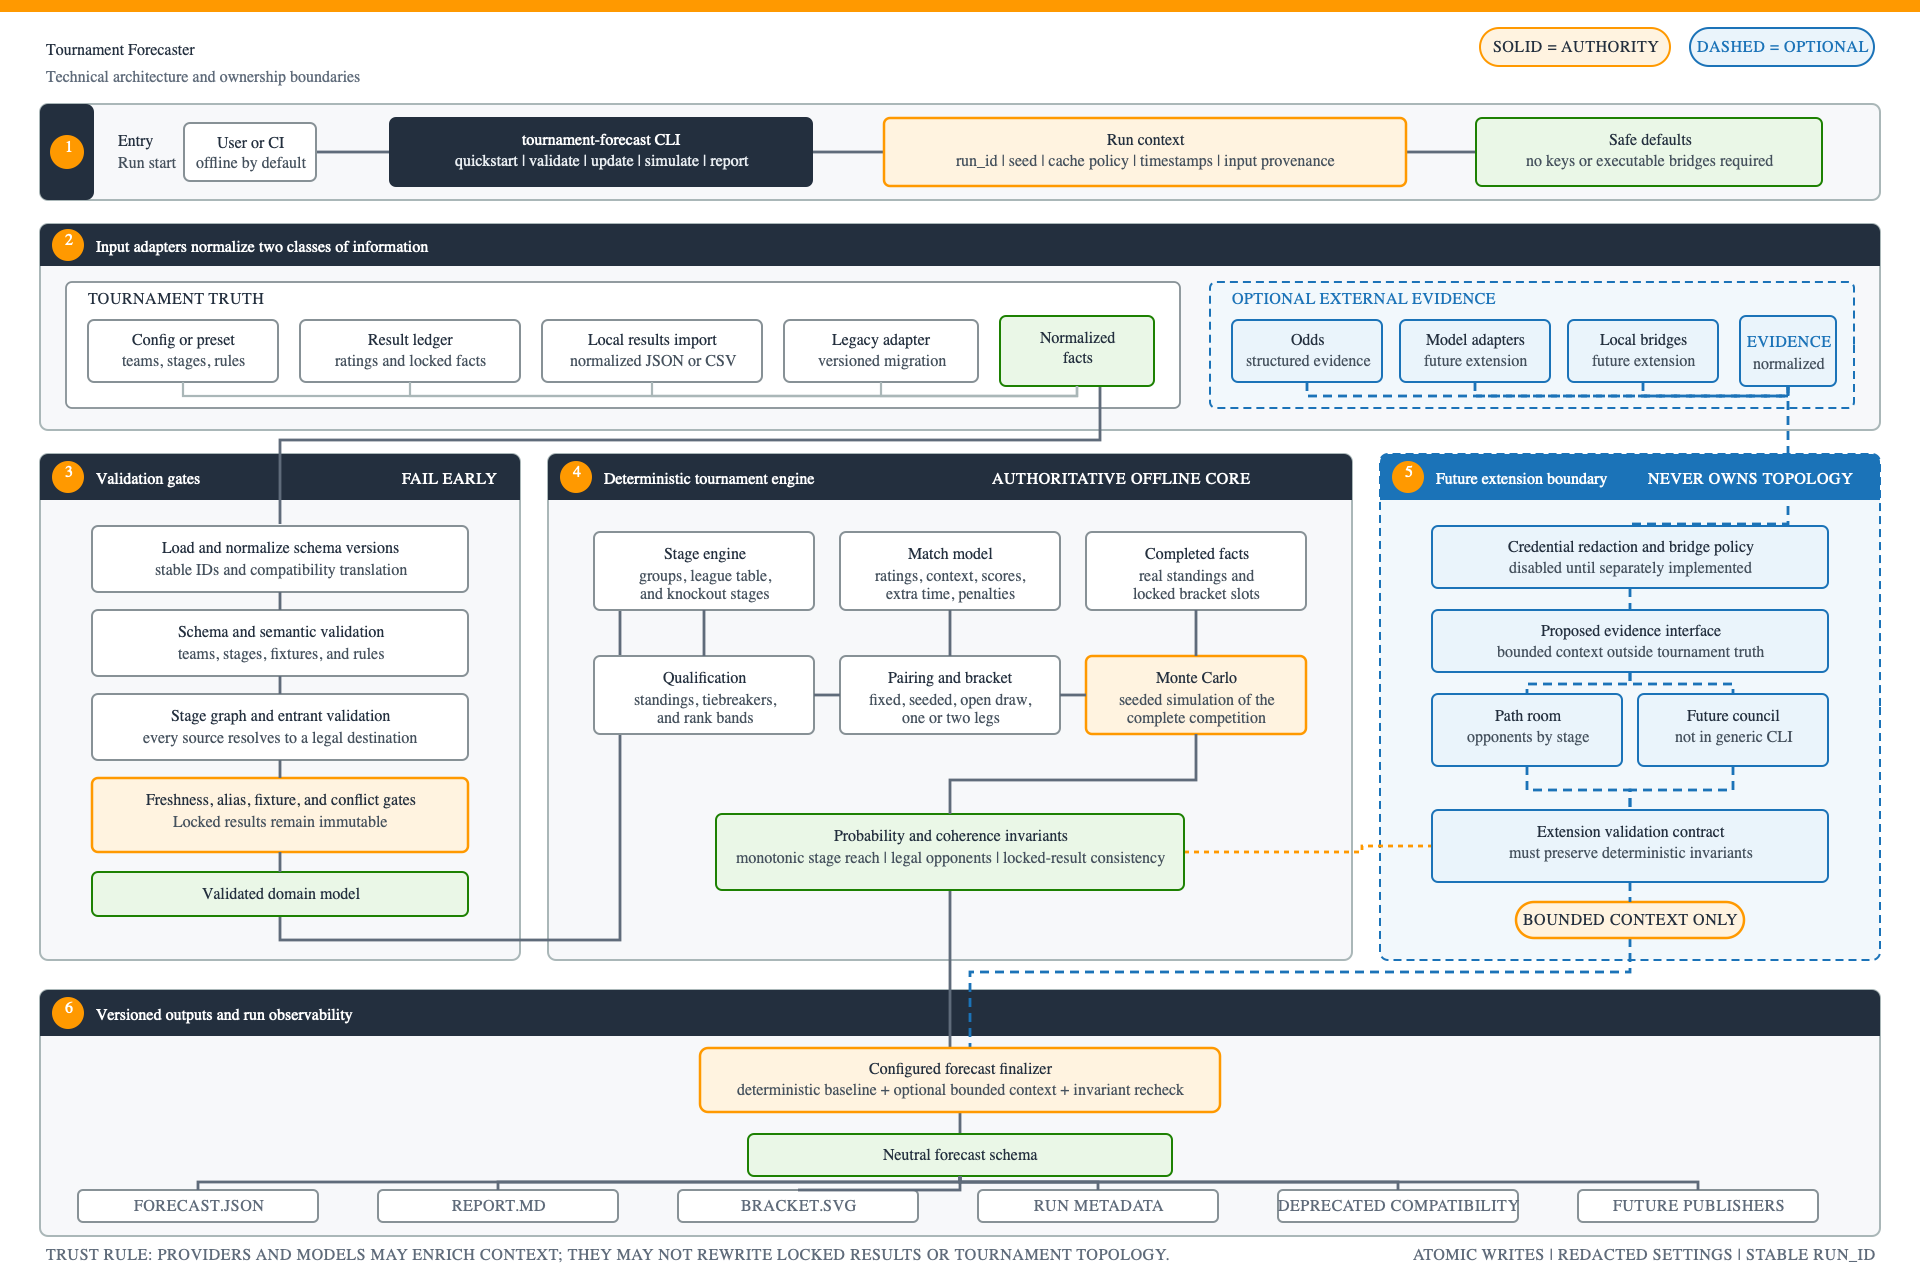
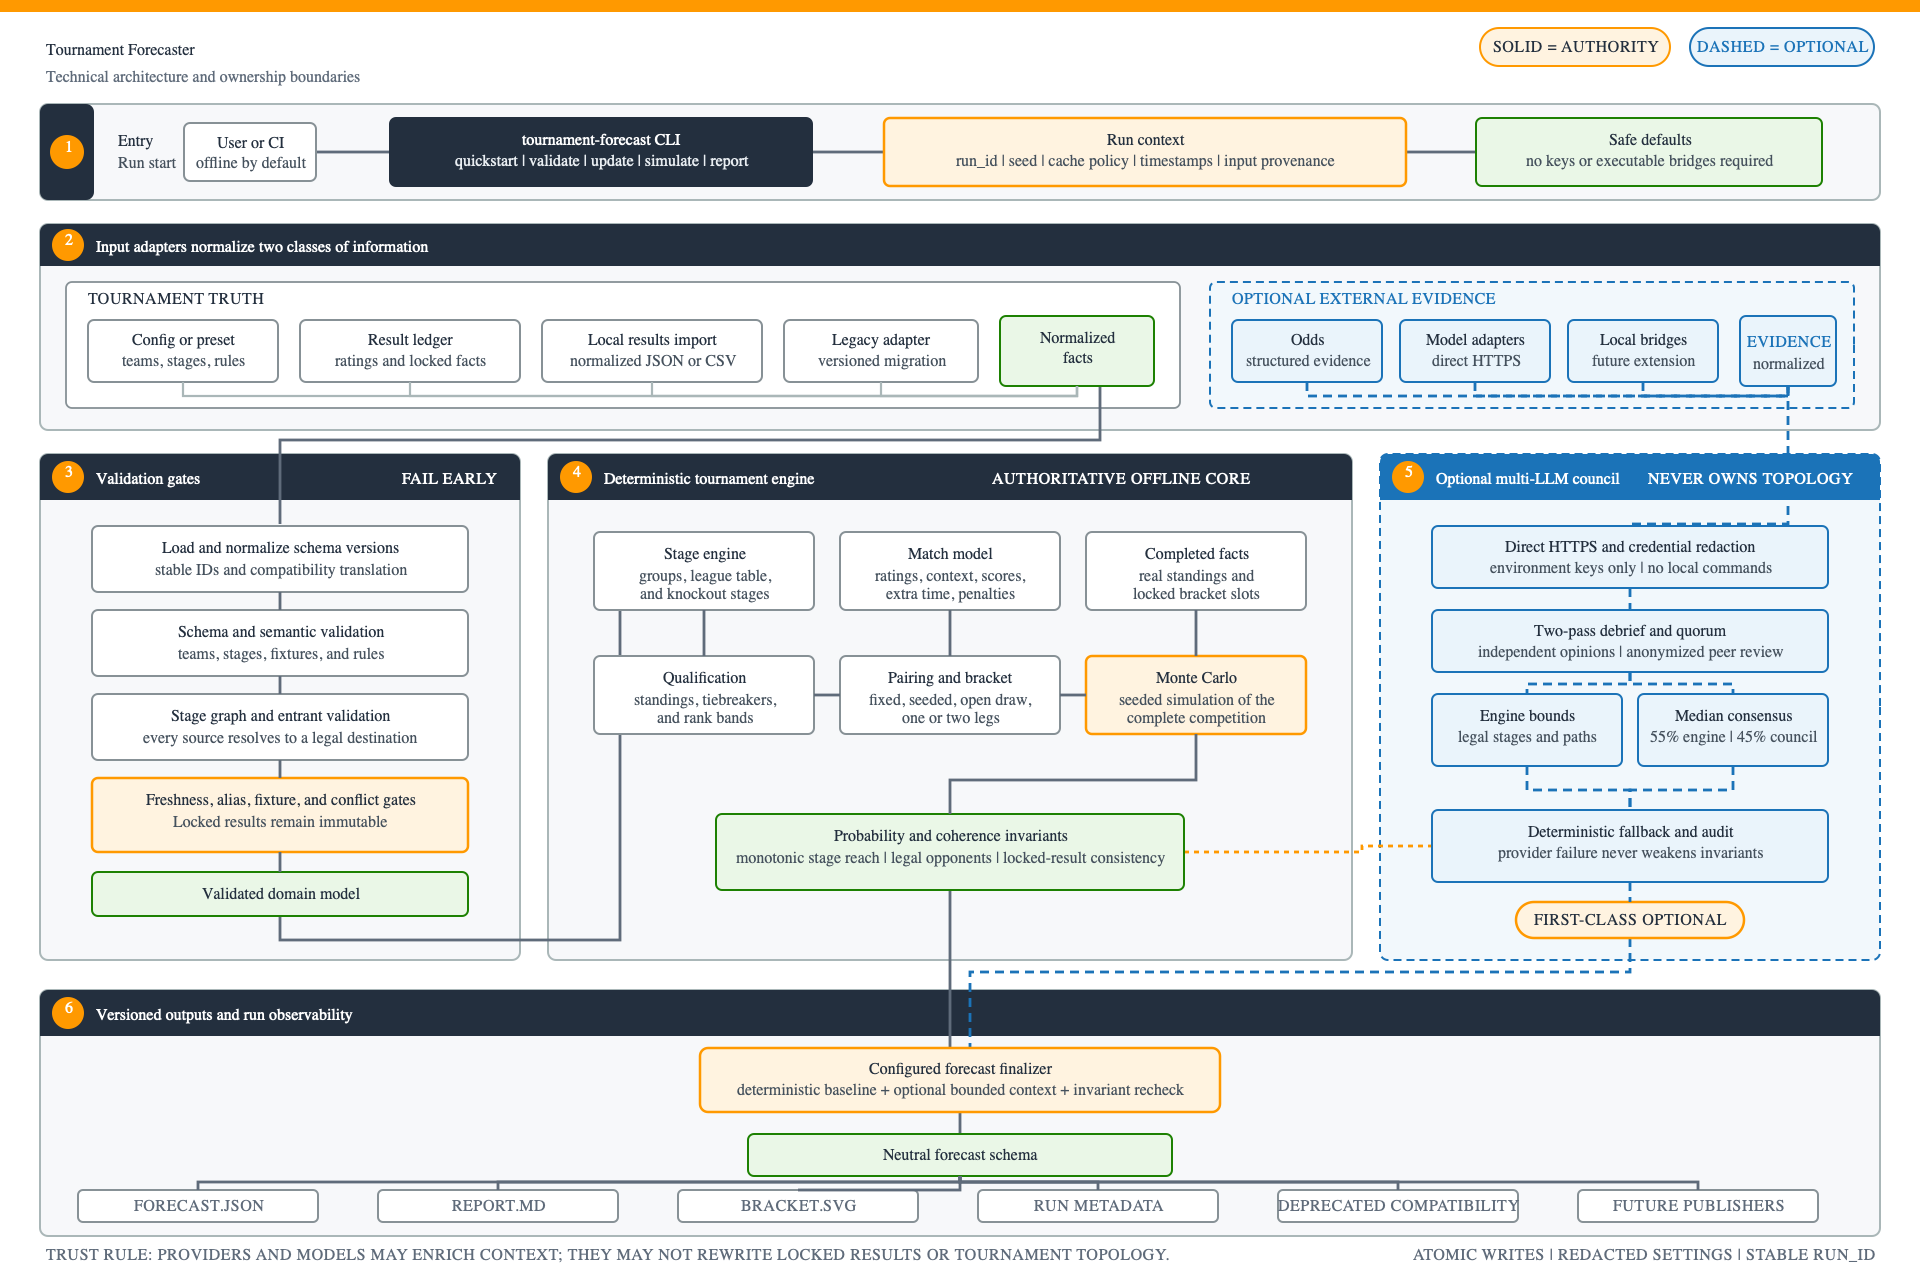
docs: make the multi-llm council first class

Changed region(s): [[0.75, 0.4062, 0.9375, 0.5938], [0.7812, 0.625, 0.9062, 0.6875], [0.75, 0.2812, 0.7812, 0.3125]]

diff --git a/tests/test_public_repository_contract.py b/tests/test_public_repository_contract.py
@@ -18,6 +18,7 @@ import pytest
 from jsonschema import Draft202012Validator
 
 from tournament_forecaster.config import load_tournament_document
+from tournament_forecaster.council.config import load_council_config
 from tournament_forecaster.resources import resource_path
 
 ROOT = Path(__file__).parents[1]
@@ -56,6 +57,7 @@ REQUIRED_FILES = {
     "docs/assets/architecture/README.md",
     "docs/assets/architecture/generate.py",
     "docs/assets/architecture/manifest.json",
+    "examples/council.example.json",
     "scripts/check_english_surface.py",
 }
 
@@ -72,6 +74,7 @@ TASK6_OVERLAY_PATHS = (
     Path("docs/PROVIDERS.md"),
     Path("docs/assets/architecture"),
     Path("docs/knockout-stage-output-contract.md"),
+    Path("examples/council.example.json"),
     Path("docs/superpowers/plans/2026-07-10-tournament-forecaster-productization.md"),
     Path(
         "docs/superpowers/specs/2026-07-10-open-source-tournament-forecaster-design.md"
@@ -761,6 +764,86 @@ def test_readme_states_the_real_example_and_backtest_boundaries() -> None:
         "72",
     ):
         assert phrase in readme
+
+
+def test_multi_llm_council_is_a_documented_first_class_optional_capability() -> None:
+    readme = (ROOT / "README.md").read_text(encoding="utf-8")
+    normalized_readme = readme.casefold()
+    configuration = (ROOT / "docs/CONFIGURATION.md").read_text(encoding="utf-8")
+    providers = (ROOT / "docs/PROVIDERS.md").read_text(encoding="utf-8")
+    architecture = (ROOT / "docs/ARCHITECTURE.md").read_text(encoding="utf-8")
+    product_flow = (ROOT / "docs/PRODUCT_FLOW.md").read_text(encoding="utf-8")
+    security = (ROOT / "SECURITY.md").read_text(encoding="utf-8")
+    env_example = (ROOT / ".env.example").read_text(encoding="utf-8")
+    council_path = ROOT / "examples/council.example.json"
+
+    for phrase in (
+        "first-class optional multi-llm council",
+        "55% deterministic engine / 45% council consensus",
+        "two-pass debrief",
+        "falls back to the deterministic baseline",
+        "tournament-forecast council validate --config council.local.json",
+        "--council-config council.local.json --council",
+        "--council-config council.local.json --no-council",
+    ):
+        assert phrase in normalized_readme
+    assert "does not yet" not in normalized_readme.split(
+        "## supported formats", maxsplit=1
+    )[1].split("## configuration", maxsplit=1)[0]
+
+    for phrase in (
+        "reasoning_effort",
+        "thinking_budget_tokens",
+        "minimum_valid_agents",
+        "engine_weight",
+        "council_weight",
+    ):
+        assert phrase in configuration
+    for provider in (
+        "openai",
+        "anthropic",
+        "openai-compatible",
+        "google-gemini",
+    ):
+        assert provider in providers.casefold()
+    for phrase in (
+        "55% deterministic engine",
+        "45% council",
+        "cannot change completed results",
+    ):
+        assert phrase in architecture.casefold() + product_flow.casefold()
+    for phrase in (
+        "direct https",
+        "environment variables",
+        "provider errors",
+    ):
+        assert phrase in security.casefold()
+
+    expected_environment_names = {
+        "OPENAI_API_KEY",
+        "ANTHROPIC_API_KEY",
+        "PERPLEXITY_API_KEY",
+        "DEEPSEEK_API_KEY",
+        "GEMINI_API_KEY",
+    }
+    for name in expected_environment_names:
+        assert f"{name}=" in env_example
+    assert not any(
+        line.partition("=")[2].strip()
+        for line in env_example.splitlines()
+        if line.partition("=")[0] in expected_environment_names
+    )
+
+    document = json.loads(council_path.read_text(encoding="utf-8"))
+    with resource_path("schemas", "council.schema.json") as schema_path:
+        schema = json.loads(schema_path.read_text(encoding="utf-8"))
+    Draft202012Validator(schema).validate(document)
+    council = load_council_config(council_path)
+    assert council.enabled is False
+    assert council.engine_weight == pytest.approx(0.55)
+    assert council.council_weight == pytest.approx(0.45)
+    assert council.rounds == 2
+    assert len(council.enabled_agents) >= 3
 
 
 def test_readme_live_simulation_and_backtest_are_socket_denied(

diff --git a/tests/test_readme_diagrams.py b/tests/test_readme_diagrams.py
@@ -40,7 +40,8 @@ def test_readme_links_current_english_architecture_contract() -> None:
 
     for phrase in (
         "authoritative offline core",
-        "future extension boundaries",
+        "first-class optional council",
+        "remaining extension boundaries",
         "custom aws-style svg assets",
         "matching png exports",
         "not mermaid diagrams",
@@ -53,6 +54,30 @@ def test_readme_links_current_english_architecture_contract() -> None:
         assert phrase in normalized
 
     assert "target architecture diagrams" not in normalized
+
+
+def test_architecture_diagrams_show_the_implemented_bounded_council() -> None:
+    product = (ASSET_DIRECTORY / "product-flow.svg").read_text(encoding="utf-8")
+    technical = (ASSET_DIRECTORY / "technical-architecture.svg").read_text(
+        encoding="utf-8"
+    )
+    combined = (product + technical).casefold()
+
+    for phrase in (
+        "multi-llm council",
+        "two-pass debrief",
+        "55% engine",
+        "45% council",
+        "direct https",
+        "deterministic fallback",
+    ):
+        assert phrase in combined
+    for stale in (
+        "future council",
+        "not implemented by the generic cli",
+        "not in generic cli",
+    ):
+        assert stale not in combined
 
 
 def test_architecture_manifest_approves_and_reproduces_svg_png_pairs() -> None:

diff --git a/README.md b/README.md
@@ -1,6 +1,6 @@
 # Tournament Forecaster
 
-Tournament Forecaster is an offline-first, configuration-driven engine for simulating tournament formats and publishing auditable forecasts. The generic product, its schemas, and its CLI are the primary interface.
+Tournament Forecaster is a configuration-driven hybrid engine for simulating tournament formats and publishing auditable forecasts. Its deterministic tournament engine is the source of truth, and a first-class optional multi-LLM council can research, challenge, and debrief the forecast before publication. The generic product, its schemas, and its CLI are the primary interface.
 
 ## Quickstart
 
@@ -31,6 +31,33 @@ For a fully synthetic offline smoke test after installation:
 tournament-forecast quickstart --iterations 10000 --output-dir outputs
 ```
 
+## Multi-LLM Council
+
+The debriefing council is a core product capability but an optional runtime dependency. With no council configuration, every command keeps the zero-key offline behavior above. When enabled, the default policy is **55% deterministic engine / 45% council consensus**. The deterministic engine still owns completed facts, standings, legal opponents, bracket topology, and matchup probabilities.
+
+Start from the credential-free example, choose current provider model IDs, and keep the local copy out of source control:
+
+```bash
+cp examples/council.example.json council.local.json
+tournament-forecast council validate --config council.local.json
+```
+
+Set `enabled` to `true` in `council.local.json`, export only the environment variables named by its `api_key_env` fields, and run:
+
+```bash
+tournament-forecast simulate --config examples/world-cup-2026-live/tournament.json --iterations 10000 --output-dir outputs --council-config council.local.json --council
+```
+
+The default two-pass debrief keeps round one independent and gives valid reviewers anonymized peer positions in round two. Models have equal voting weight; the median valid opinion becomes the council consensus. Model, provider, effort, rounds, failures, and consensus are retained in `forecast.json` and `report.md`. If the council misses quorum or a provider fails, the run falls back to the deterministic baseline and records the reason instead of weakening tournament invariants.
+
+Hard-disable all model calls without changing the saved configuration:
+
+```bash
+tournament-forecast simulate --config examples/world-cup-2026-live/tournament.json --iterations 10000 --output-dir outputs --council-config council.local.json --no-council
+```
+
+Supported adapters are OpenAI Responses, Anthropic Messages, Google Gemini, and HTTPS OpenAI-compatible chat endpoints. Model IDs and reasoning controls remain explicit because provider availability and capabilities change independently of this repository. See [Configuration](docs/CONFIGURATION.md), [Providers](docs/PROVIDERS.md), and [Security](SECURITY.md).
+
 ## Backtesting
 
 Run the checked-in evaluation dataset with:
@@ -49,10 +76,11 @@ Implemented contracts include:
 - league stages with explicit fixtures and qualification bands;
 - fixed, seeded, and open draws;
 - one-leg and two-leg knockout ties;
-- completed-result locking so known matches are never resimulated; and
+- completed-result locking so known matches are never resimulated;
+- an optional, auditable multi-LLM debriefing council with a fixed 55/45 blend and deterministic fallback; and
 - JSON forecast output with rendered Markdown and SVG artifacts.
 
-The engine does not yet infer arbitrary tournament rules from prose, schedule matches, fetch provider data over the network, or run the optional multi-model council through the generic CLI. Provider acquisition is an explicit external step. Unsupported tie-break rules and competition-specific edge cases must be modeled before use, not silently approximated.
+The engine does not infer arbitrary tournament rules from prose, schedule matches, or fetch tournament results and odds implicitly. Data acquisition remains an explicit provider step. The optional council makes direct HTTPS model calls only when it is configured and enabled. Unsupported tie-break rules and competition-specific edge cases must be modeled before use, not silently approximated.
 
 ## Configuration
 
@@ -73,7 +101,7 @@ The CLI consumes validated local JSON or CSV files. Imports are preview-first, c
 
 ## Architecture
 
-The committed diagrams describe the authoritative offline core and clearly mark future extension boundaries. They are custom AWS-style SVG assets with matching PNG exports, not Mermaid diagrams.
+The committed diagrams describe the authoritative offline core, the first-class optional council, and the remaining extension boundaries. They are custom AWS-style SVG assets with matching PNG exports, not Mermaid diagrams.
 
 - [Product flow SVG](docs/assets/architecture/product-flow.svg) ([PNG](docs/assets/architecture/product-flow.png))
 - [Technical architecture SVG](docs/assets/architecture/technical-architecture.svg) ([PNG](docs/assets/architecture/technical-architecture.png))

diff --git a/docs/CONFIGURATION.md b/docs/CONFIGURATION.md
@@ -69,7 +69,30 @@ Pairing modes are `fixed`, `seeded_draw`, and `open_draw`. Knockout stages decla
 
 ## Local And Secret Settings
 
-Commit reusable public configuration only. Keep credentials in environment variables and machine-specific values in ignored `*.local.json` files. `.env.example` names optional variables but contains no values. The generic simulation, validation, reporting, schema, preset, and backtest paths require no provider key.
+Tournament rules and council policy use separate JSON files. This keeps a reusable tournament offline and prevents model-provider choices from becoming tournament truth.
+
+Start from `examples/council.example.json`. Its public contract is:
+
+- `enabled` is the saved default; `--council` and `--no-council` override it for one run.
+- `engine_weight` must be `0.55` and `council_weight` must be `0.45`; this fixed public policy prevents configuration drift from contradicting the audit.
+- `rounds` defaults to `2`: independent opinions first, then an anonymized peer review.
+- `minimum_valid_agents` is the quorum required before the consensus can affect the forecast.
+- `timeout_seconds` and `max_attempts` bound each provider call.
+- Each agent declares a stable `id`, presentation `display_name`, `provider`, current `model`, `api_key_env`, and `enabled` state.
+- `reasoning_effort` supports `none`, `minimal`, `low`, `medium`, `high`, and `xhigh` where the provider supports it.
+- `thinking_budget_tokens` exposes providers that use an explicit thinking budget instead of an effort label.
+- `max_output_tokens` and `temperature` are per-agent controls.
+- An `openai-compatible` agent must declare an HTTPS `endpoint`; standard OpenAI, Anthropic, and Gemini endpoints are supplied by the adapter.
+
+Validate policy, models, effort, endpoints, and quorum without making a network call:
+
+```bash
+tournament-forecast council validate --config council.local.json
+```
+
+Council configuration contains environment variable names, never credential values. A missing key becomes a classified agent failure; if valid agents fall below quorum, the forecast uses the deterministic baseline and records the fallback.
+
+Commit reusable public configuration only. Keep credentials in environment variables and machine-specific values in ignored `*.local.json` files. `.env.example` names optional variables but contains no values. The generic simulation, validation, reporting, schema, preset, and backtest paths require no provider key. Council calls require only the keys used by enabled agents.
 
 Configuration is trusted input. Review local files and templates before running them. The generic CLI does not implement a local command bridge or accept executable commands from configuration.
 

diff --git a/docs/PROVIDERS.md b/docs/PROVIDERS.md
@@ -6,7 +6,8 @@ Providers are acquisition boundaries, not owners of tournament truth. Tournament
 
 - **Credentials** such as `THE_ODDS_API_KEY` are secrets. Load them from an environment variable or secret manager, require rotation after suspected exposure, require revocation when retired, and never commit or log them.
 - **Competition and season IDs** identify public datasets and are not secrets. The World Cup example uses competition `17` and season `285023`.
-- **Local bridges** are a reserved future extension and are not implemented by the generic CLI. No public environment variable enables one; any later bridge requires a separate threat model, explicit configuration contract, and security review.
+- **Model credentials** are resolved from the environment variable names declared in council configuration. They are never accepted as inline JSON values.
+- **Local bridges** remain a reserved extension and are not implemented by the generic CLI. The council uses direct HTTPS adapters; no public environment variable enables command execution.
 
 ## Platform Boundary
 
@@ -51,6 +52,23 @@ tournament-forecast update-odds --source normalized-odds.json
 ```
 
 Unknown fields, malformed timestamps, invalid decimal odds, unsafe metadata, and non-HTTP(S) source URLs fail closed. Missing optional odds data leaves the deterministic core available; an operator-defined required acquisition step should fail its own workflow rather than fabricate evidence.
+
+## Multi-LLM Council Providers
+
+The first-class optional council supports four adapter contracts:
+
+| Provider value | HTTP contract | Provider-specific controls |
+| --- | --- | --- |
+| `openai` | OpenAI Responses API | `reasoning_effort` |
+| `anthropic` | Anthropic Messages API | `thinking_budget_tokens` |
+| `google-gemini` | Gemini `generateContent` API | `reasoning_effort` or `thinking_budget_tokens` |
+| `openai-compatible` | HTTPS chat completions | explicit `endpoint` |
+
+Provider model IDs are intentionally not frozen in this document. Copy `examples/council.example.json`, replace its placeholder IDs with models available in your accounts, and validate before running. The example includes Perplexity and DeepSeek as OpenAI-compatible endpoints, but any compatible endpoint must satisfy the same HTTPS, credential, response, and timeout contract.
+
+The council is invoked only by `simulate` or `quickstart` when both a council file and an enabled policy are present. Round one collects independent structured opinions. Round two, when configured, exposes anonymized valid peer positions. Provider failures are classified and persisted without secrets. Missing credentials, authentication failures, quota errors, invalid responses, and timeouts reduce the valid-agent count; below quorum, the finalizer falls back to the deterministic baseline.
+
+Google 429 responses whose body reports depleted prepayment credits are surfaced explicitly in the council audit: the operator must buy or add credits in Google AI Studio before retrying. No automatic retry can repair depleted billing credit.
 
 ## Raw Payload Policy
 

diff --git a/docs/ARCHITECTURE.md b/docs/ARCHITECTURE.md
@@ -1,9 +1,9 @@
 # Technical Architecture
 
-- **Status:** Target architecture contract for the open-source migration
+- **Status:** Implemented public architecture contract
 - **Product:** Tournament Forecaster
 
-The architecture keeps tournament rules and probability computation deterministic and offline. Network providers, model providers, local executable bridges, and publishing templates are reserved adapter boundaries, not owners of tournament truth. The current generic CLI implements local normalized-file imports and does not implement model providers, command bridges, or publishing adapters.
+The architecture keeps tournament rules and baseline probability computation deterministic and offline. The generic CLI also implements an optional multi-LLM debriefing council through direct HTTPS model adapters. That council is a first-class product capability, but it is never the owner of tournament truth. Local executable bridges remain outside the generic product.
 
 ## Component Architecture
 
@@ -20,7 +20,7 @@ The diagram is also available as a [PNG export](assets/architecture/technical-ar
 | 3 | Offline validator | Validate schema, stage graph, entrants, aliases, freshness, fixtures, and result conflicts | Structural failures stop before simulation or paid calls |
 | 4 | Result ledger | Load immutable completed facts and atomically accept reviewed final results | Conflicts never overwrite silently |
 | 5 | Deterministic engine | Simulate all remaining matches and derive standings, qualification, pairings, stage reach, and title probability | Coherence violations invalidate the run |
-| 6 | Optional council | Receive the baseline, legal opponents, evidence, and bounds; return bounded context or a degraded no-op | It cannot change completed results or tournament topology |
+| 6 | Optional council | Collect independent opinions, run anonymized peer review, derive a median consensus, and blend 55% deterministic engine with 45% council | It cannot change completed results, tournament topology, legal matchups, or matchup probabilities; below quorum it falls back to the baseline |
 | 7 | Finalizer and reporters | Recheck invariants and atomically write versioned JSON, Markdown, SVG, audit, compatibility, and publishing artifacts | Partial output sets are not published as complete runs |
 
 ## Ownership Rules
@@ -39,4 +39,5 @@ The diagram is also available as a [PNG export](assets/architecture/technical-ar
 - Invalid schemas, impossible stage references, stale required results, and result conflicts fail before simulation or paid model calls.
 - Expected provider unavailability follows the configured `required`, `cached_with_ttl`, or `best_effort` policy; internal programming errors are never converted into provider downtime.
 - Council failure degrades to the validated deterministic baseline. It never unlocks completed results, changes the stage graph, or invents legal opponents.
+- Model calls use direct HTTPS adapters and environment-only credentials. The generic CLI never executes provider-supplied or configuration-supplied commands.
 - Every accepted external fact records provider provenance and retrieval time. Every artifact records the `run_id`, input provenance, warnings, and compatibility conversions.

diff --git a/docs/PRODUCT_FLOW.md b/docs/PRODUCT_FLOW.md
@@ -14,7 +14,7 @@ The diagram is also available as a [PNG export](assets/architecture/product-flow
 1. **Useful before configuration:** after installation, the first forecast requires no keys, network access, or manual file edits.
 2. **One focus team, complete tournament:** the product highlights one team while simulating every match needed to preserve opponent and qualification probabilities.
 3. **Facts before forecasts:** completed results are immutable and future probabilities are recalculated around them.
-4. **Intelligence is optional:** the deterministic engine is the product; model research and debate are bounded enhancements.
+4. **Hybrid intelligence is first-class and optional:** every user gets the deterministic engine; users who enable the council get an auditable two-pass debrief blended at 55% deterministic engine and 45% council consensus.
 5. **Every probability is inspectable:** users receive machine-readable results, a human report, a bracket, warnings, provenance, and an audit trail.
 6. **The forecast is a loop:** new results and validated inputs produce a new run without rewriting tournament logic.
 
@@ -27,5 +27,5 @@ The diagram is also available as a [PNG export](assets/architecture/product-flow
 | `validate` | Find structural or stale-data problems before simulation or paid calls |
 | `update-results` and `update-odds` | Preview and ingest external facts safely |
 | `simulate` | Estimate stage reach, matchups, and championship probability |
-| optional council | Add sourced context and an auditable challenge to the deterministic baseline |
+| optional multi-LLM council | Configure models and effort, debate the deterministic baseline, and apply a bounded 55/45 consensus |
 | `report` | Produce reusable JSON, Markdown, SVG, and audit artifacts |

diff --git a/SECURITY.md b/SECURITY.md
@@ -16,6 +16,8 @@ Maintainers will acknowledge a complete report, investigate it privately, coordi
 - **Local command boundary:** The generic CLI does not implement local command bridges and does not execute commands declared by tournament or provider data. Any future bridge needs a separate threat model, an explicit enablement design, and security review before public configuration is added.
 - **Symlink and output boundary:** Imports reject unsafe file substitutions, apply verifies source and destination identity, and publication uses atomic immutable generations. Output publication fails closed when the lexical path contains an ancestor symlink or junction. Use the canonical path; on macOS that means `/private/tmp/...` instead of the `/tmp/...` alias. Do not place output roots in attacker-controlled directories.
 - **Provider key boundary:** Credentials belong in environment variables or an external secret manager. They must never be written to tournament configuration, provider payloads, logs, reports, or source control.
+- **Council network boundary:** The optional council performs direct HTTPS requests only after a user supplies a validated council file and enables it. Endpoint configuration rejects inline credentials, query strings, fragments, and non-HTTPS URLs. The generic council never executes local commands.
+- **Council failure boundary:** Provider errors are classified, bounded, and sanitized before audit persistence. Missing credentials, quota exhaustion, authentication failure, timeout, and malformed provider output cannot weaken deterministic invariants; an unavailable quorum falls back to the deterministic baseline.
 - **Deprecated bridge boundary:** Legacy `worldcup_brazil` command bridges are explicit opt-ins, execute argument arrays without a shell, and receive an allowlisted process environment containing only operational variables plus the credential declared for that provider. Remote provider endpoints require HTTPS; plain HTTP is accepted only for loopback development endpoints.
 - **Data provenance boundary:** Normalized facts retain provider and retrieval metadata. Provenance is evidence about origin, not a guarantee that an external fact is accurate, licensed for every use, or unchanged upstream.
 